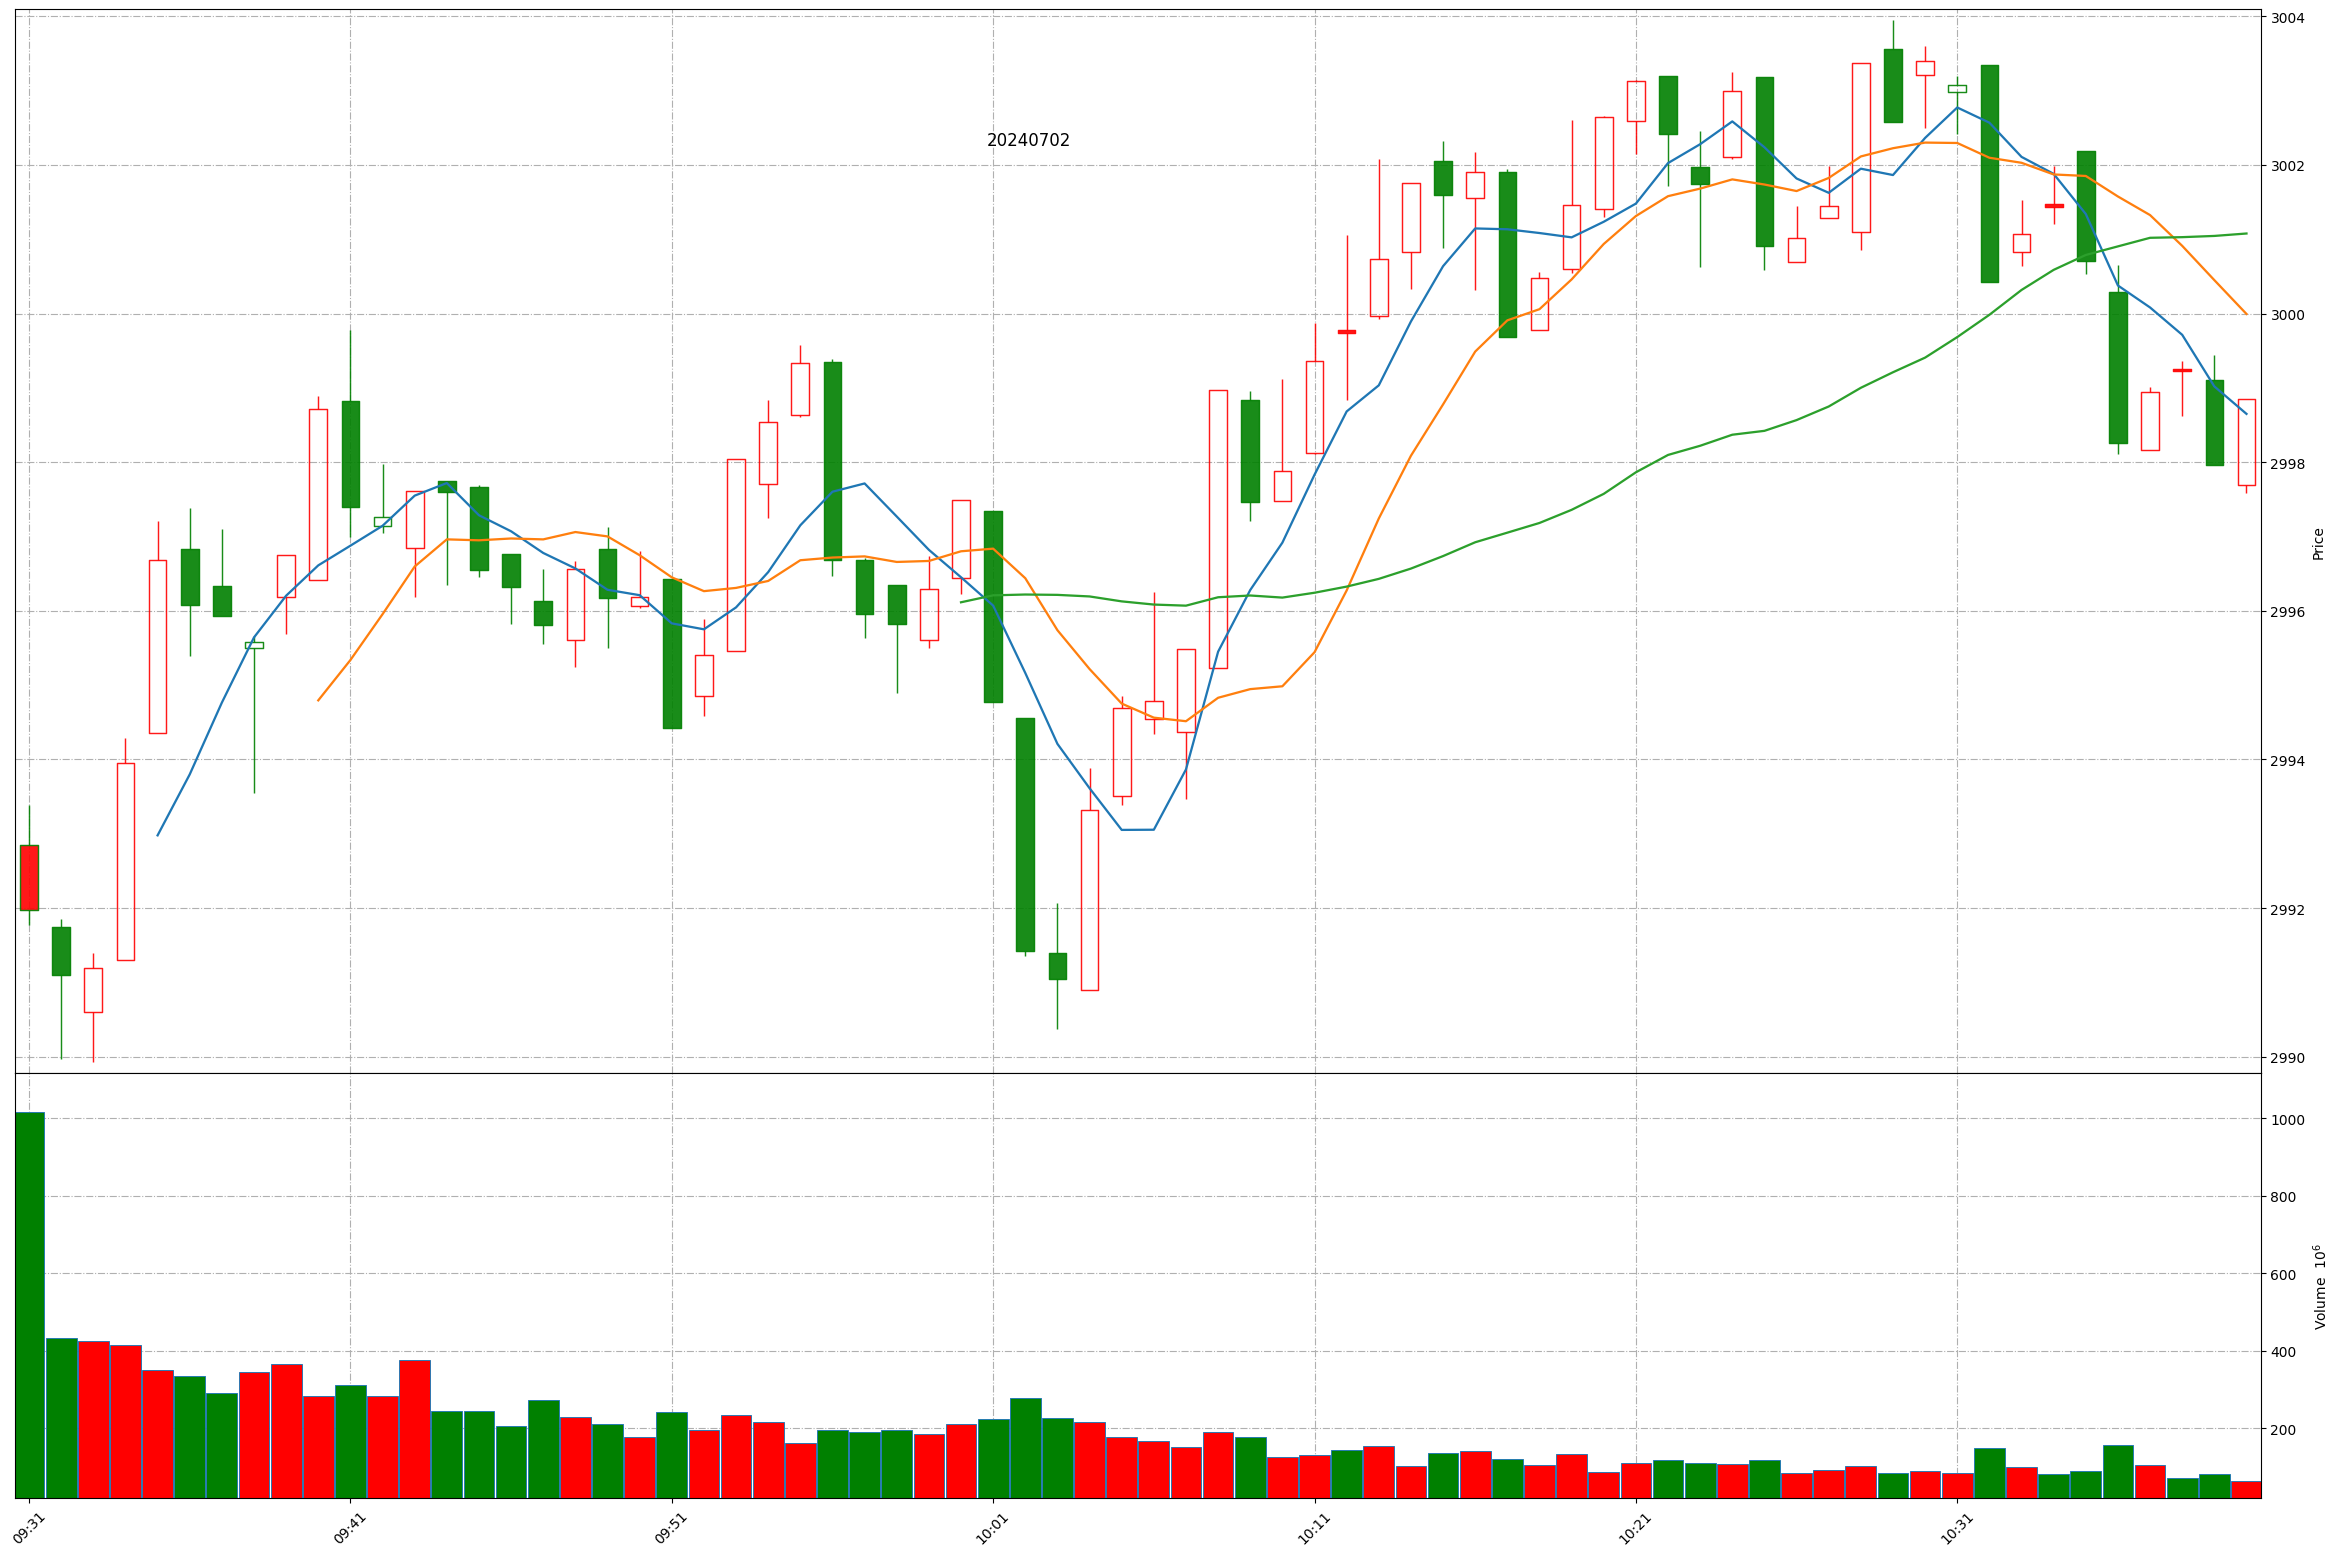
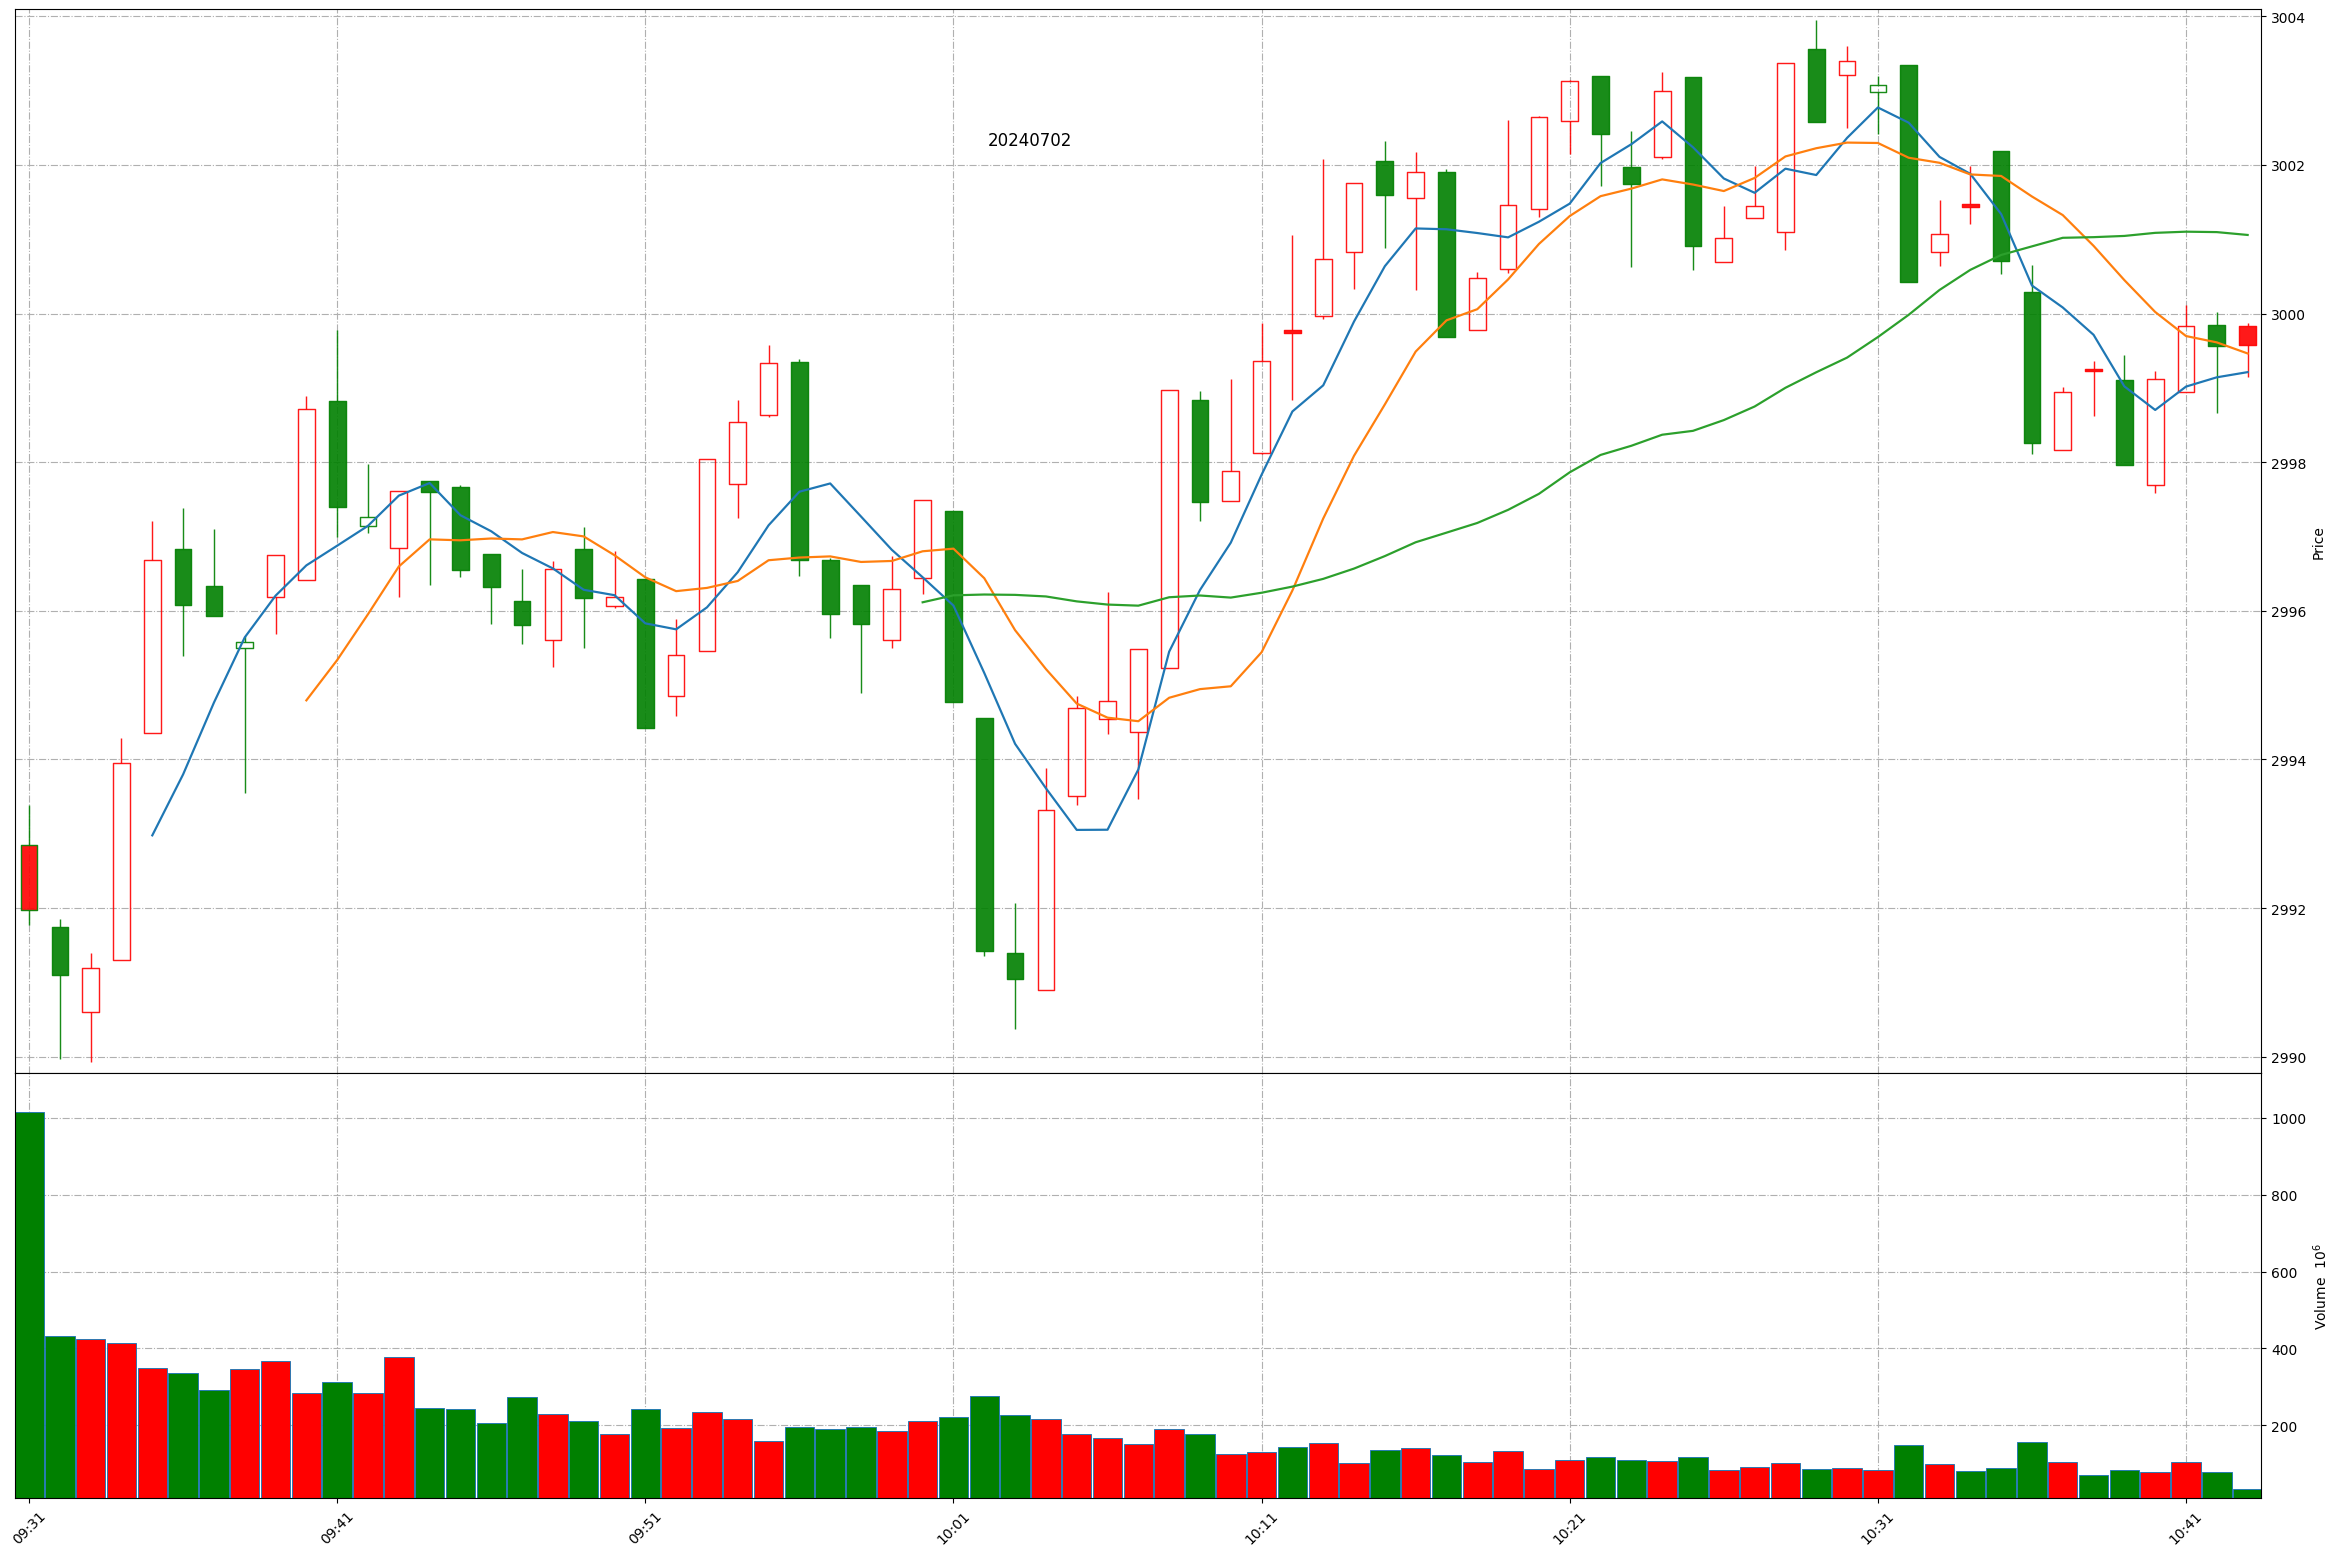
Github action update at 2024-07-02 10:42:46.

diff --git a/README.md b/README.md
@@ -1,11 +1,11 @@
 
 # Daily-A-share-market-quotes 每日 A 股指数（5min 更新）- 20240702
 
-### 上证指数 20240702 10:40
+### 上证指数 20240702 10:42
 ![](./fig/2024/7/20240702-sh000001.png)
 
-### 深证成指 20240702 10:40
+### 深证成指 20240702 10:42
 ![](./fig/2024/7/20240702-sz399001.png)
 
-### 北证50 20240702 10:40
+### 北证50 20240702 10:42
 ![](./fig/2024/7/20240702-bj899050.png)
